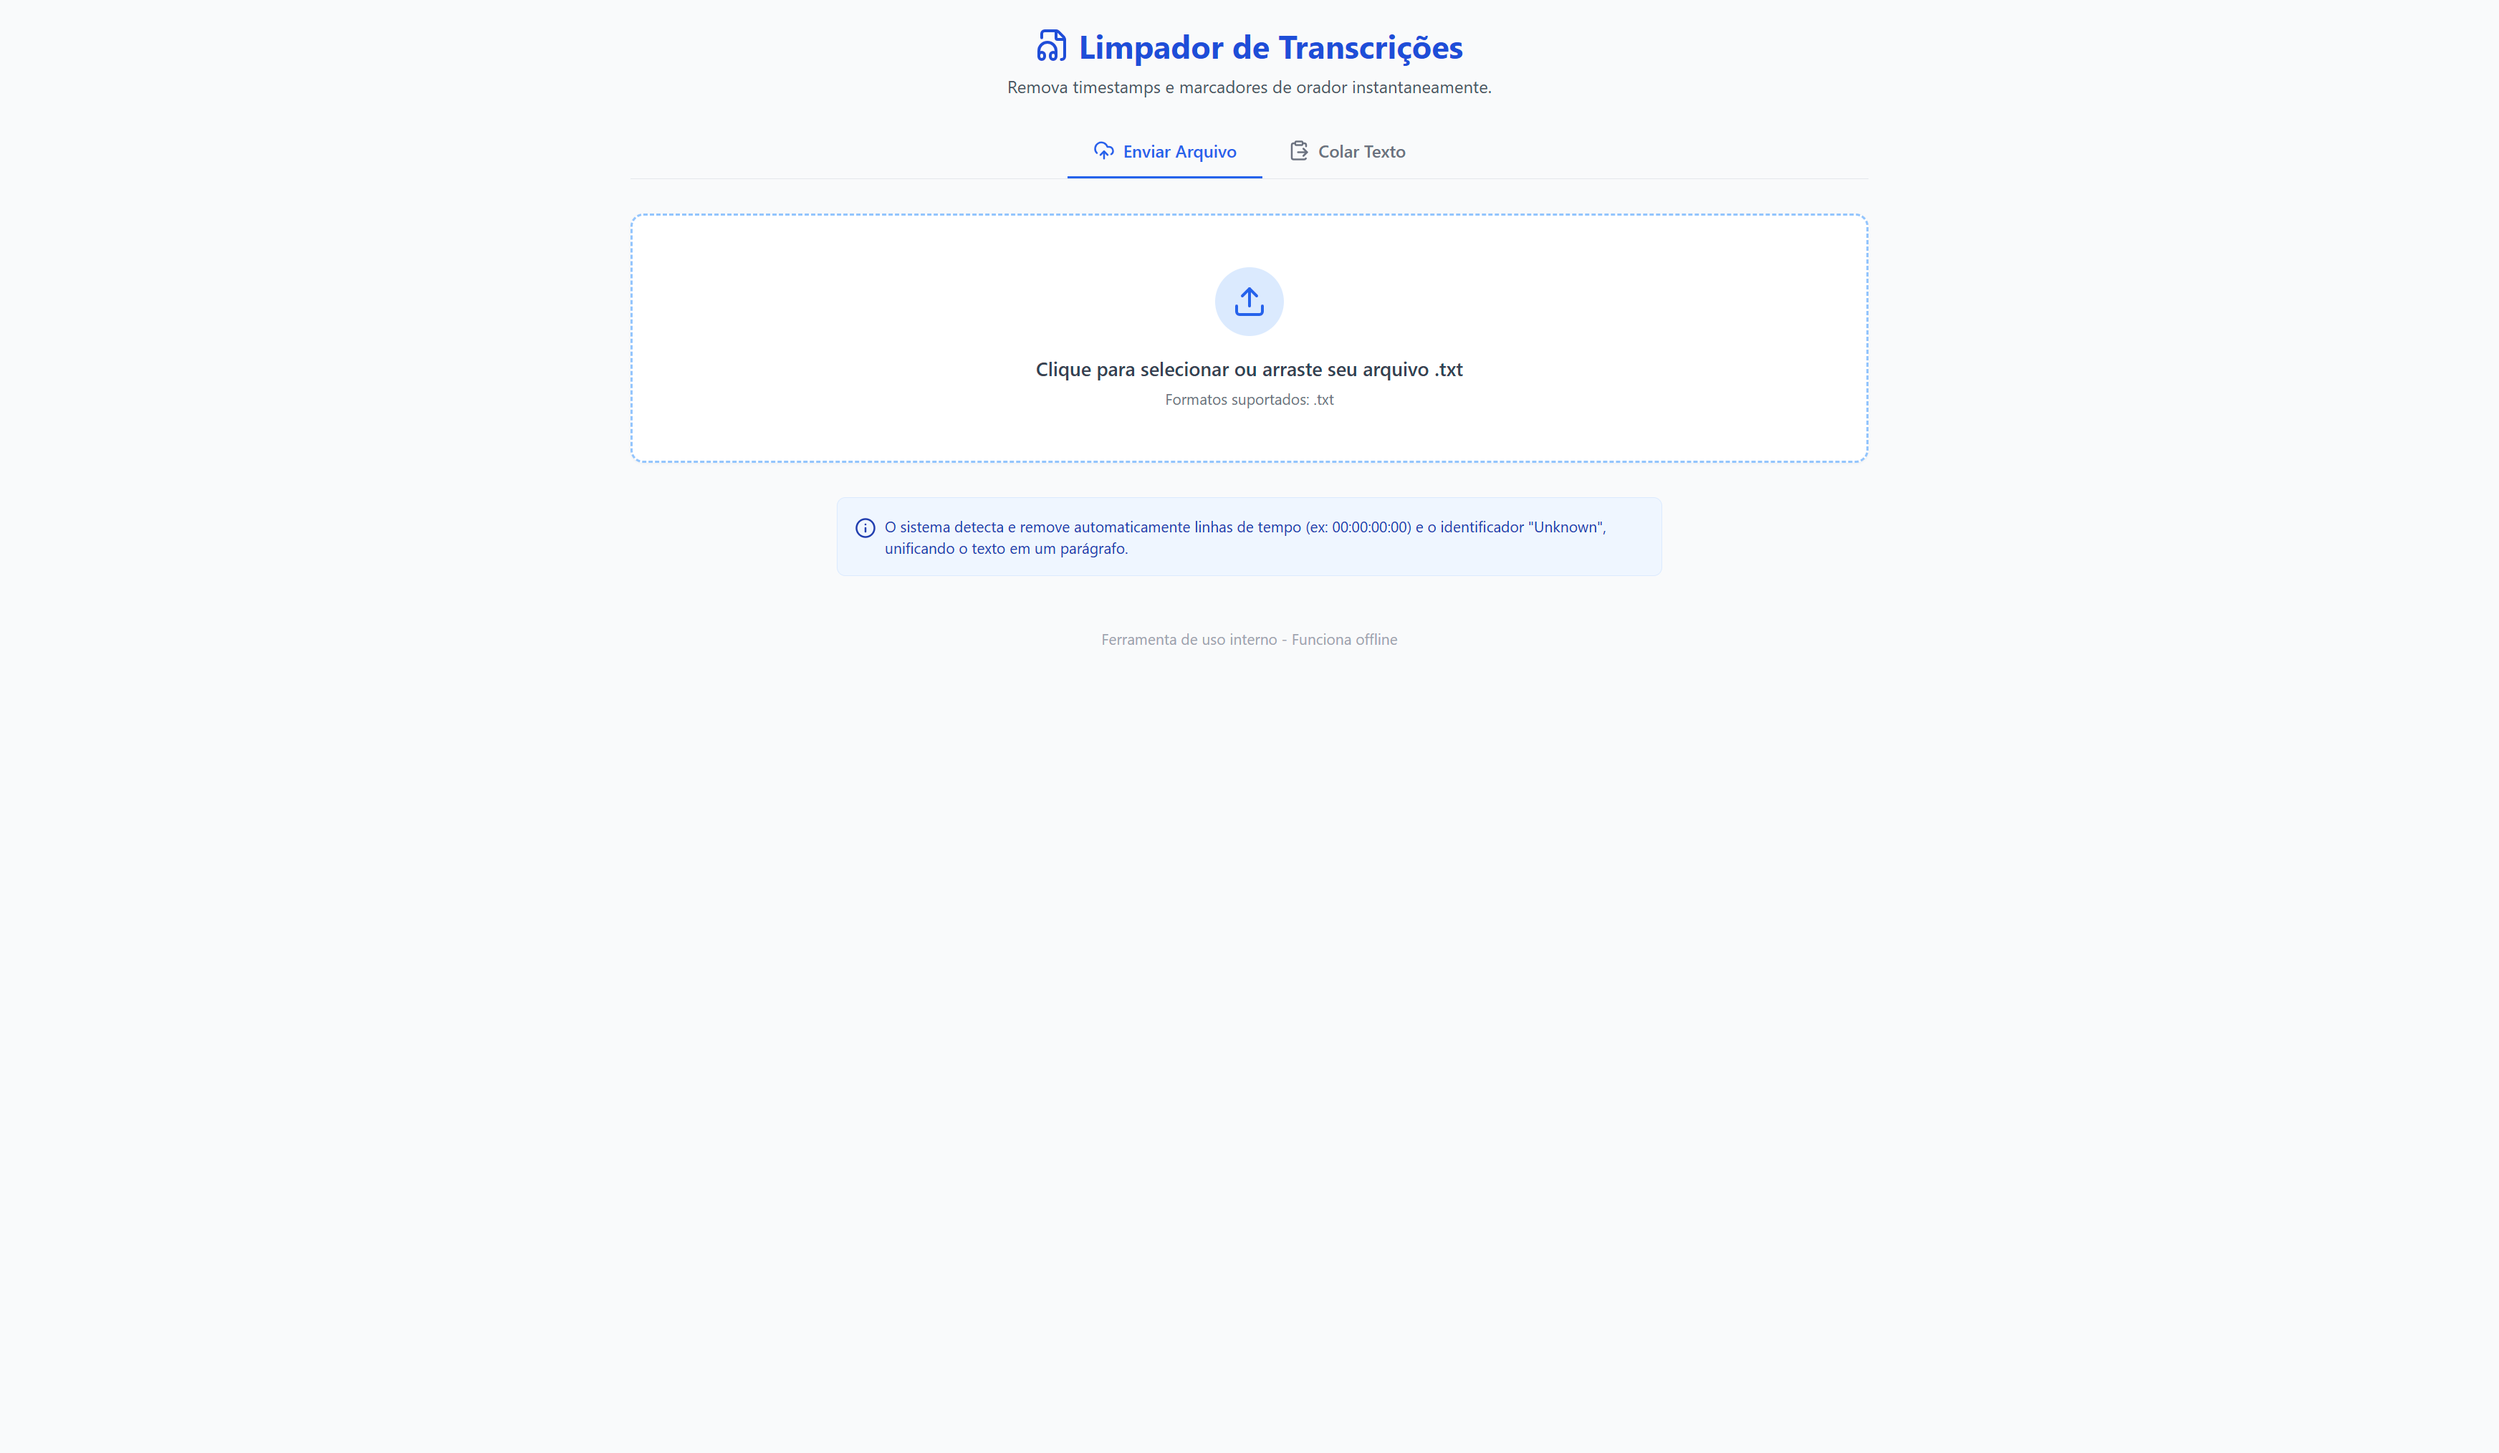
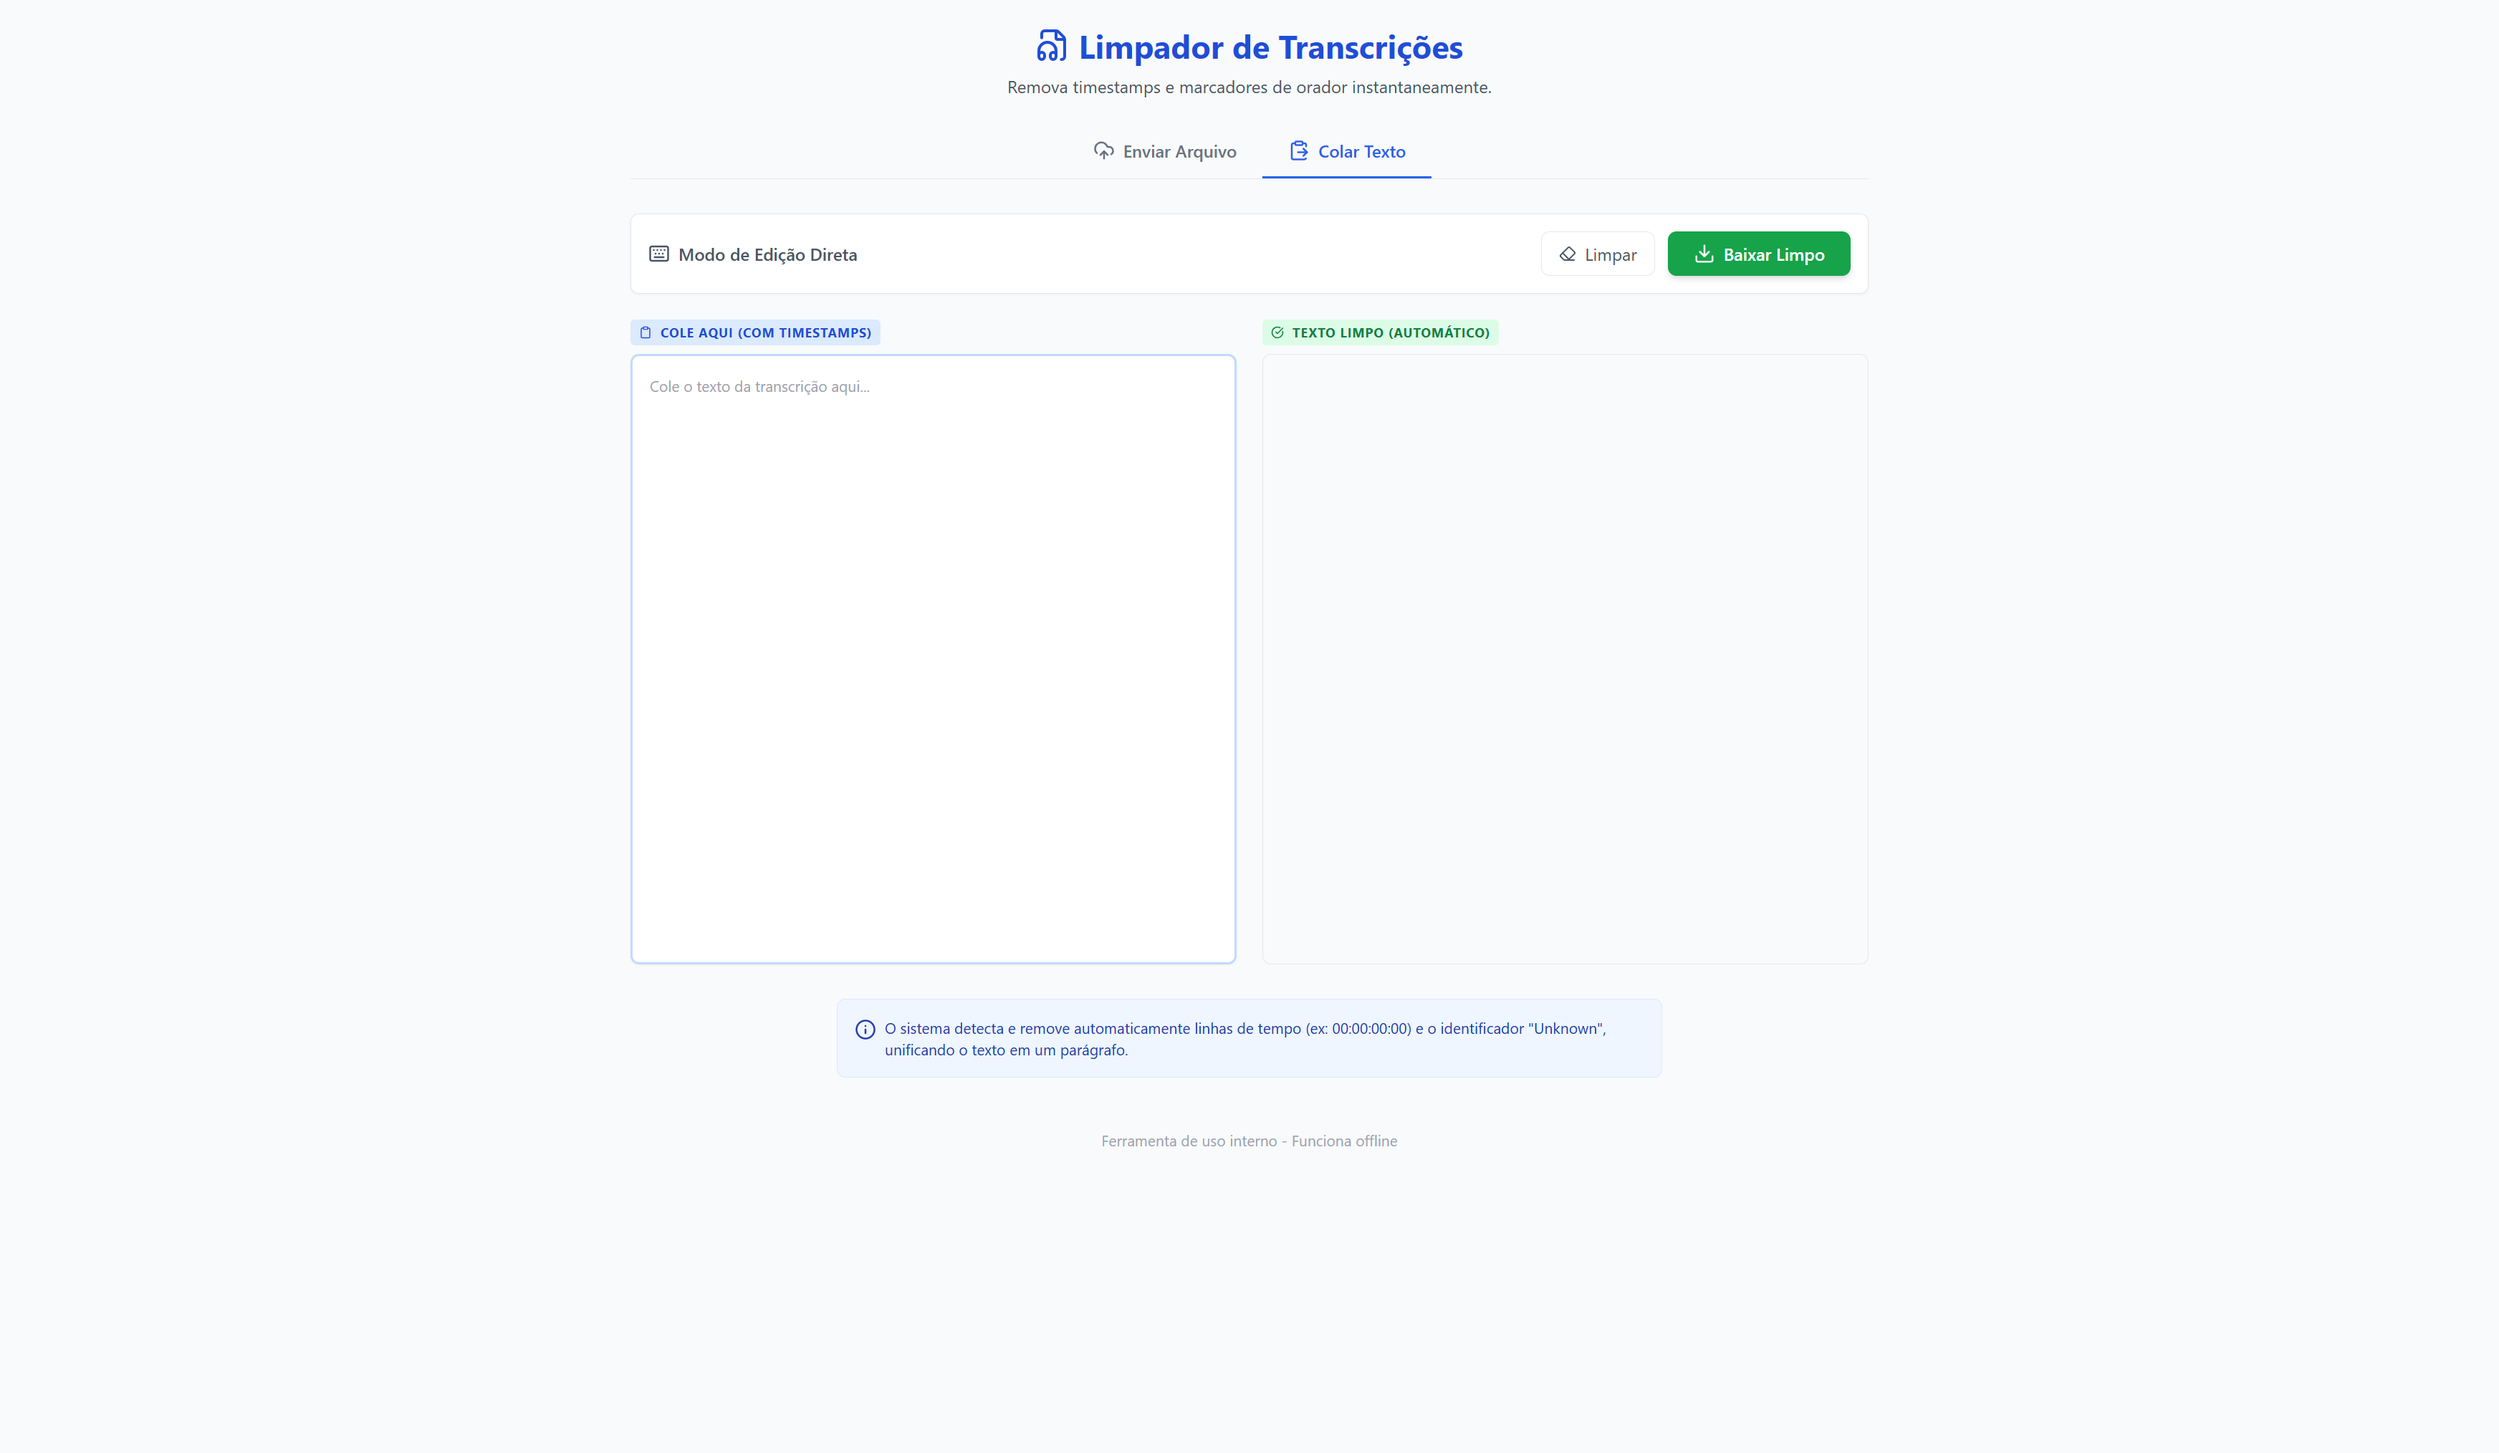
docs: expand README with detailed project information and add a new screenshot.

diff --git a/README.md b/README.md
@@ -1,2 +1,63 @@
-# limpa-transcript
-Simple interface to remove timestamps and clean txt files
+# Limpador de Transcrições
+
+![App Screenshot](.github/app-screenshot.png)
+
+## 📋 Sobre o Projeto
+
+O **Limpador de Transcrições** é uma ferramenta web simples e eficiente projetada para processar e limpar transcrições brutas. Ele remove automaticamente timestamps, marcadores de oradores desconhecidos e formata o texto para leitura fluida, transformando listas de falas com tempo em parágrafos de texto corrido.
+
+## ✨ Funcionalidades Principais
+
+- **Limpeza Inteligente de Timestamps**: Detecta e remove padrões de tempo (ex: `00:00:00:00 - 00:00:10:00`) automaticamente.
+- **Filtragem de Oradores**: Remove linhas contendo apenas "Unknown" ou marcadores irrelevantes.
+- **Unificação de Texto**: Concatena as falas em um texto corrido, removendo quebras de linha excessivas.
+- **Dois Modos de Operação**:
+  - **Upload de Arquivo**: Arraste e solte ou selecione arquivos `.txt`.
+  - **Colar Texto**: Área para colar trechos rápidos da área de transferência.
+- **Comparação em Tempo Real**: Visualize o original e o resultado lado a lado.
+- **Download Fácil**: Exporte o texto limpo como um novo arquivo `.txt`.
+- **Interface Moderna**: Design limpo e responsivo utilizando Tailwind CSS e ícones Lucide.
+
+## 📸 Visualização
+
+![App Screenshot 2](.github/app-screenshot-2.png)
+
+## 🚀 Como Clonar e Rodar
+
+Como este projeto é construído com tecnologias web estáticas (HTML, CSS e JS), ele é extremamente simples de executar.
+
+### Pré-requisitos
+
+- Git instalado
+- Navegador Web moderno com acesso à internet (para carregar o Tailwind CSS e Lucide Icons via CDN)
+
+### Passo a Passo
+
+1. **Clone o repositório**
+   Abra seu terminal e execute:
+
+   ```bash
+   git clone https://github.com/olivpeter/limpa-transcript.git
+   ```
+
+2. **Acesse o diretório**
+
+   ```bash
+   cd limpa-transcript
+   ```
+
+3. **Execute o projeto**
+   Você pode abrir o arquivo `index.html` diretamente no seu navegador:
+   - No Windows: Dê um duplo clique em `index.html` ou execute `start index.html` no terminal.
+   - Alternativamente, arraste o arquivo para uma nova aba do seu navegador.
+
+## 🛠 Tecnologias Utilizadas
+
+- **HTML5**: Estrutura semântica.
+- **CSS3 (Tailwind CSS)**: Estilização rápida e responsiva via CDN.
+- **JavaScript (Vanilla)**: Lógica de processamento de texto e manipulação do DOM.
+- **Lucide Icons**: Biblioteca de ícones leve e moderna.
+
+## 📝 Licença
+
+Este projeto está sob a licença MIT. Veja o arquivo [LICENSE](LICENSE) para mais detalhes.
